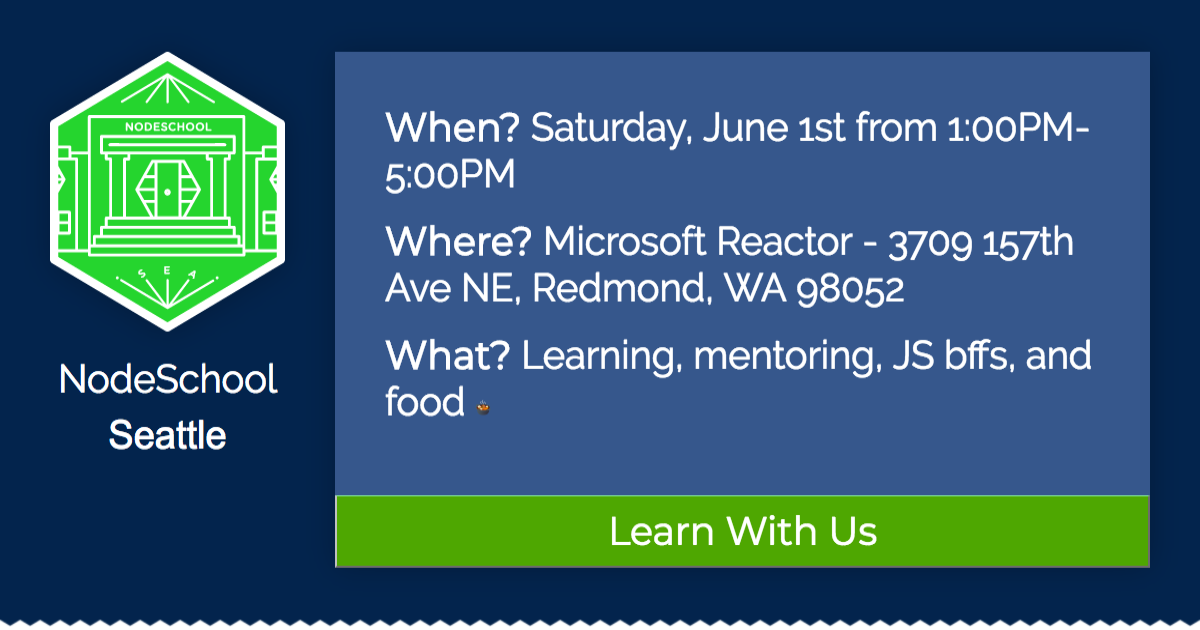
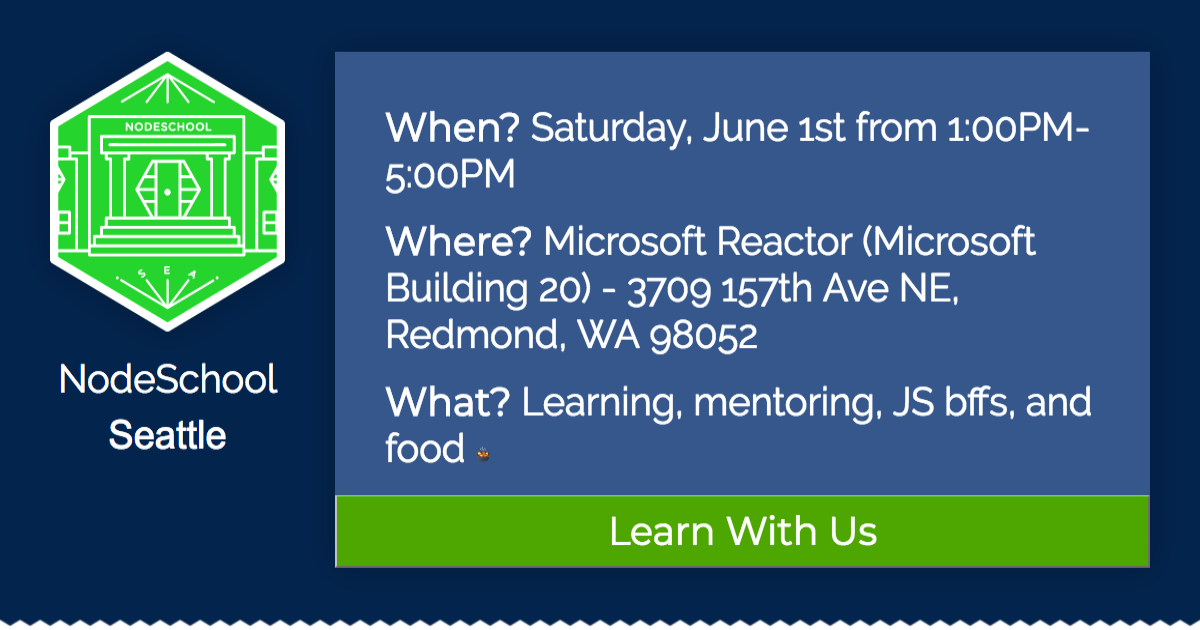
Automatic update: NodeSchool Seattle - 2019-05-08 11:12AM

Changed region(s): [[0.3083, 0.3619, 0.925, 0.6937], [0.3083, 0.6937, 0.4008, 0.754]]

diff --git a/docs/index.html b/docs/index.html
@@ -67,7 +67,7 @@
                   <strong class="strong--alt">When?</strong> Saturday, June 1st from 1:00PM-5:00PM
                 </li>
                 <li class="next-event__info__item">
-                  <strong class="strong--alt">Where?</strong> Microsoft Reactor - 3709 157th Ave NE, Redmond, WA 98052 [<a href="http://maps.google.com/?q=3709%20157th%20Ave%20NE%2C%20Redmond%2C%20WA%2098052">map</a>]
+                  <strong class="strong--alt">Where?</strong> Microsoft Reactor (Microsoft Building 20) - 3709 157th Ave NE, Redmond, WA 98052 [<a href="http://maps.google.com/?q=3709%20157th%20Ave%20NE%2C%20Redmond%2C%20WA%2098052">map</a>]
                 </li>
                 <li class="next-event__info__item">
                   <strong class="strong--alt">What?</strong> Learning, mentoring, JS bffs, and food <img src="./images/pot-of-food.png" class="emoji" alt="pot of food emoji">

diff --git a/docs/social.html b/docs/social.html
@@ -26,7 +26,7 @@
                   <strong class="strong--alt">When?</strong> Saturday, June 1st from 1:00PM-5:00PM
                 </li>
                 <li class="next-event__info__item">
-                  <strong class="strong--alt">Where?</strong> Microsoft Reactor - 3709 157th Ave NE, Redmond, WA 98052
+                  <strong class="strong--alt">Where?</strong> Microsoft Reactor (Microsoft Building 20) - 3709 157th Ave NE, Redmond, WA 98052
                 </li>
                 <li class="next-event__info__item">
                   <strong class="strong--alt">What?</strong> Learning, mentoring, JS bffs, and food <img src="./images/pot-of-food.png" class="emoji" alt="pot of food emoji">
